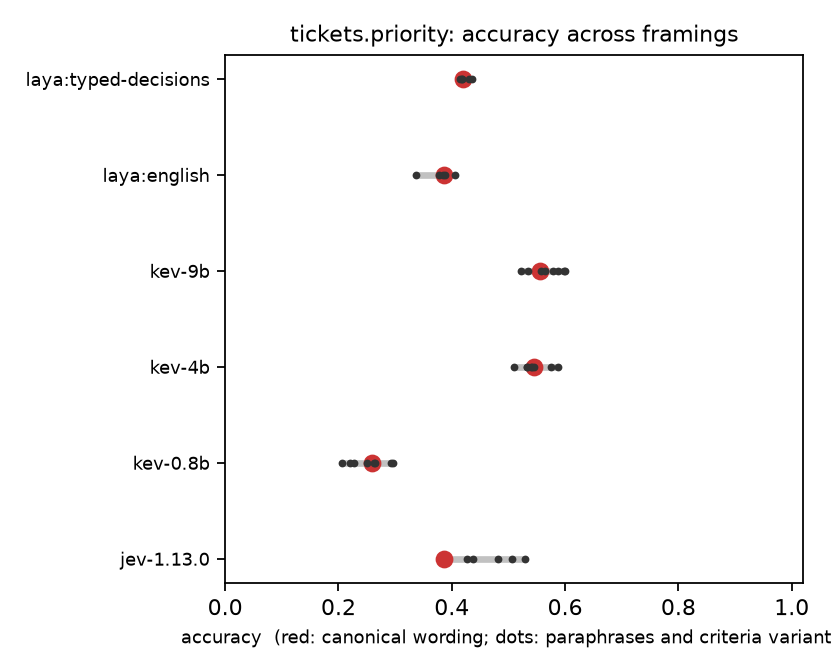
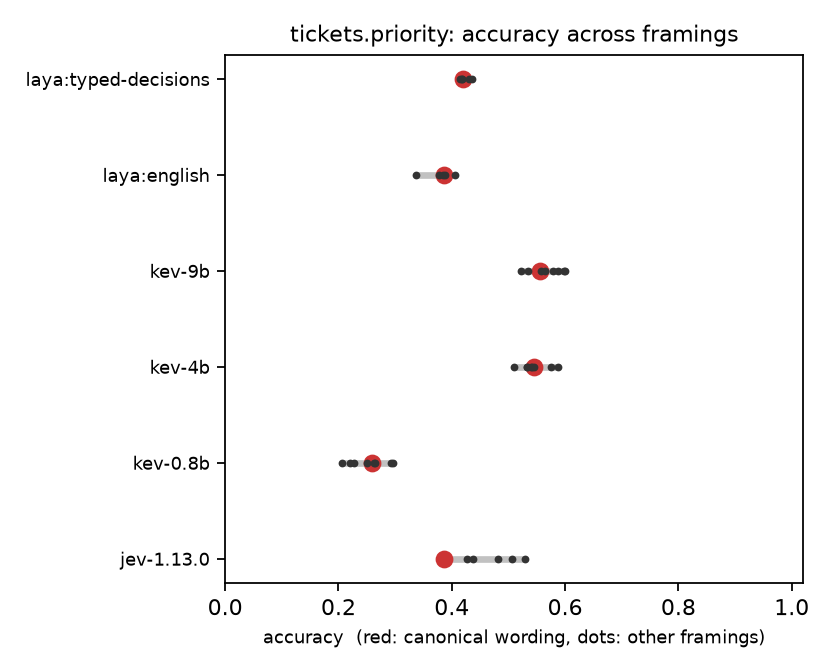
plots: shorter framing-range axis label

Changed region(s): [[0.2188, 0.9375, 1.0, 0.9688]]

diff --git a/src/sys1bench/report/plots.py b/src/sys1bench/report/plots.py
@@ -92,7 +92,7 @@ def framing_range_plot(acc_by_model_framing: dict[str, dict[str, float]], out: P
             ax.plot(v, i, marker="o" if f == "f0" else ".", color="#c33" if f == "f0" else "#333", ms=7 if f == "f0" else 5)
     ax.set_yticks(range(len(models)))
     ax.set_yticklabels(models, fontsize=8)
-    ax.set_xlabel("accuracy  (red: canonical wording; dots: paraphrases and criteria variants)", fontsize=8)
+    ax.set_xlabel("accuracy  (red: canonical wording, dots: other framings)", fontsize=8)
     ax.set_title(title, fontsize=10)
     ax.set_xlim(0, 1.02)
     fig.tight_layout()
